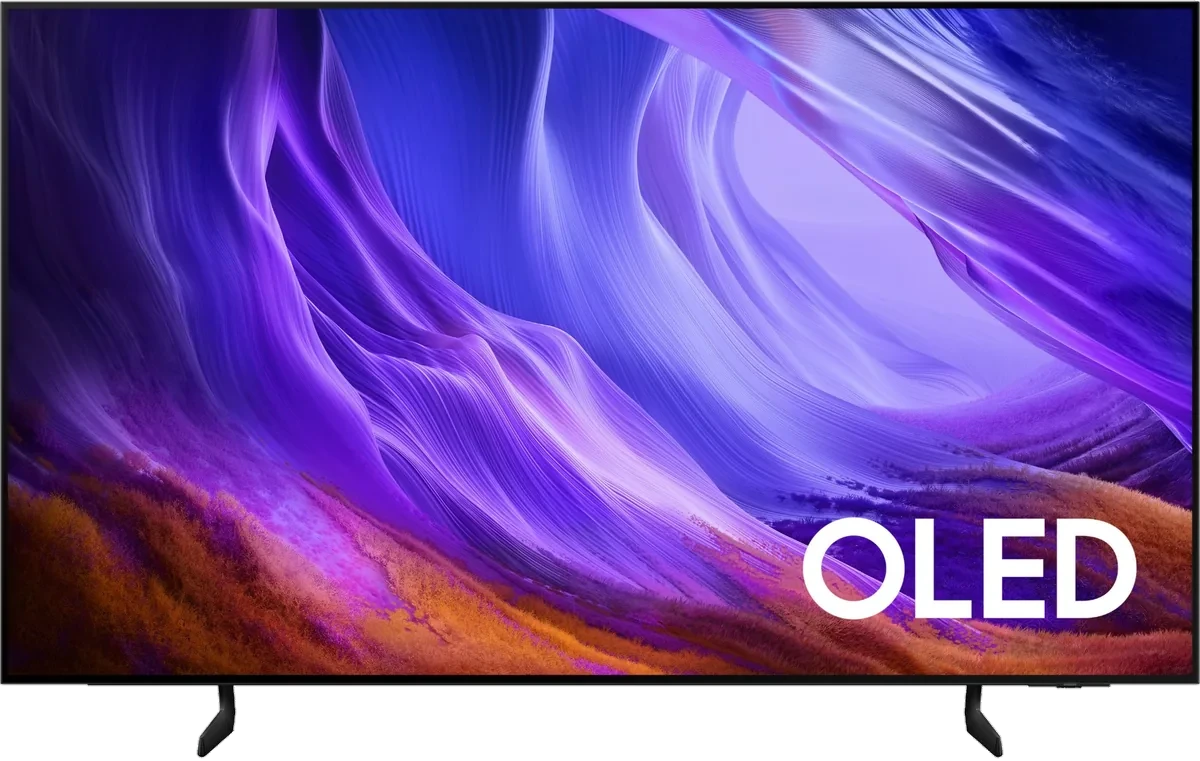
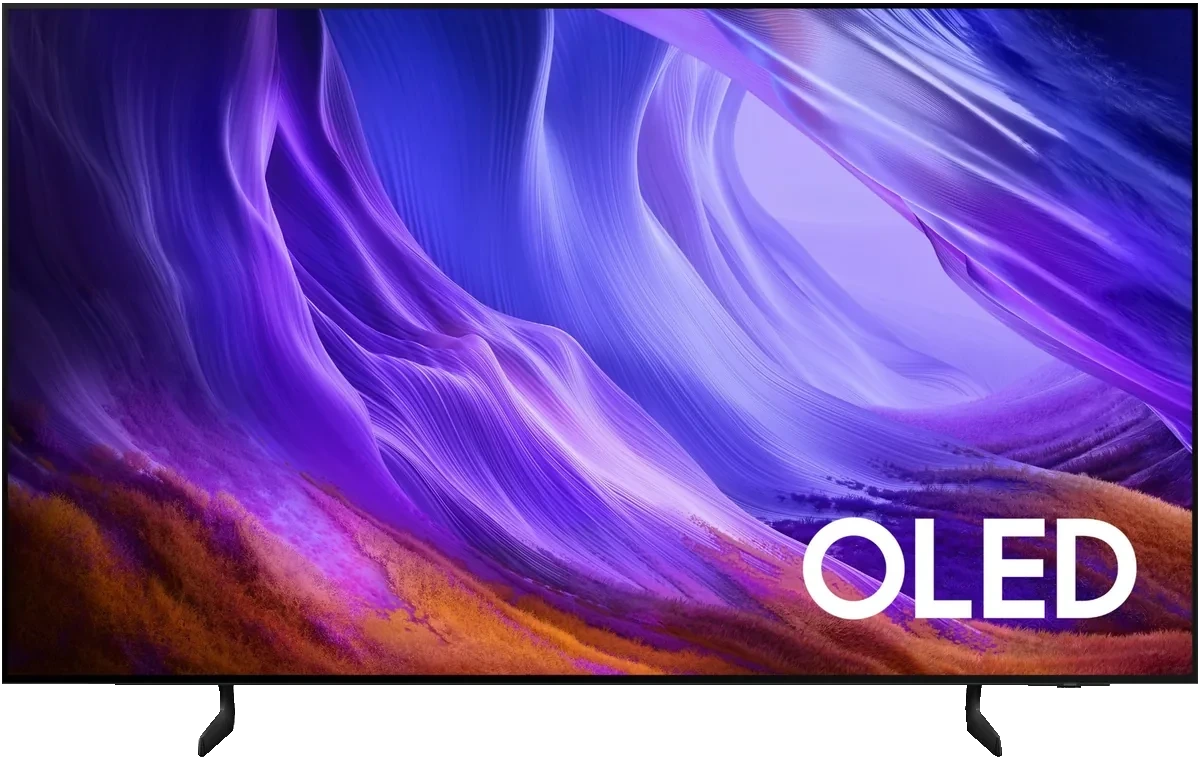
Zamijeni TV slike novom korekcijom ruba (od klijenta/agencije)
Isti kadrovi, ciscji cutout ruba nego prethodna verzija.

Changed region(s): [[0.9867, 0.0, 1.0, 0.9067], [0.0, 0.0, 0.0308, 0.0302]]

diff --git a/index.html b/index.html
@@ -8,7 +8,7 @@
   <meta name="mobile-web-app-capable" content="yes">
   <link rel="apple-touch-icon" href="icon-192.png">
   <link rel="manifest" href="manifest.json">
-  <link rel="stylesheet" href="style.css?v=17">
+  <link rel="stylesheet" href="style.css?v=18">
 </head>
 <body>
   <div id="app">
@@ -163,8 +163,8 @@
 
   </div>
 
-  <script src="supabase-config.js?v=17"></script>
-  <script src="app.js?v=17"></script>
+  <script src="supabase-config.js?v=18"></script>
+  <script src="app.js?v=18"></script>
   <script>
     // Orientation-aware canvas fit: #app is a fixed-size design canvas
     // (1920x1200 landscape / 1200x1920 portrait). Whenever the tablet is

diff --git a/sw.js b/sw.js
@@ -1,11 +1,11 @@
-var CACHE_NAME = 'maxtv20-v17';
+var CACHE_NAME = 'maxtv20-v18';
 
 var ASSETS = [
   './',
   './index.html',
-  './style.css?v=17',
-  './app.js?v=17',
-  './supabase-config.js?v=17',
+  './style.css?v=18',
+  './app.js?v=18',
+  './supabase-config.js?v=18',
   './manifest.json',
   './ht-logo-white.svg',
   './icon-192.png',
